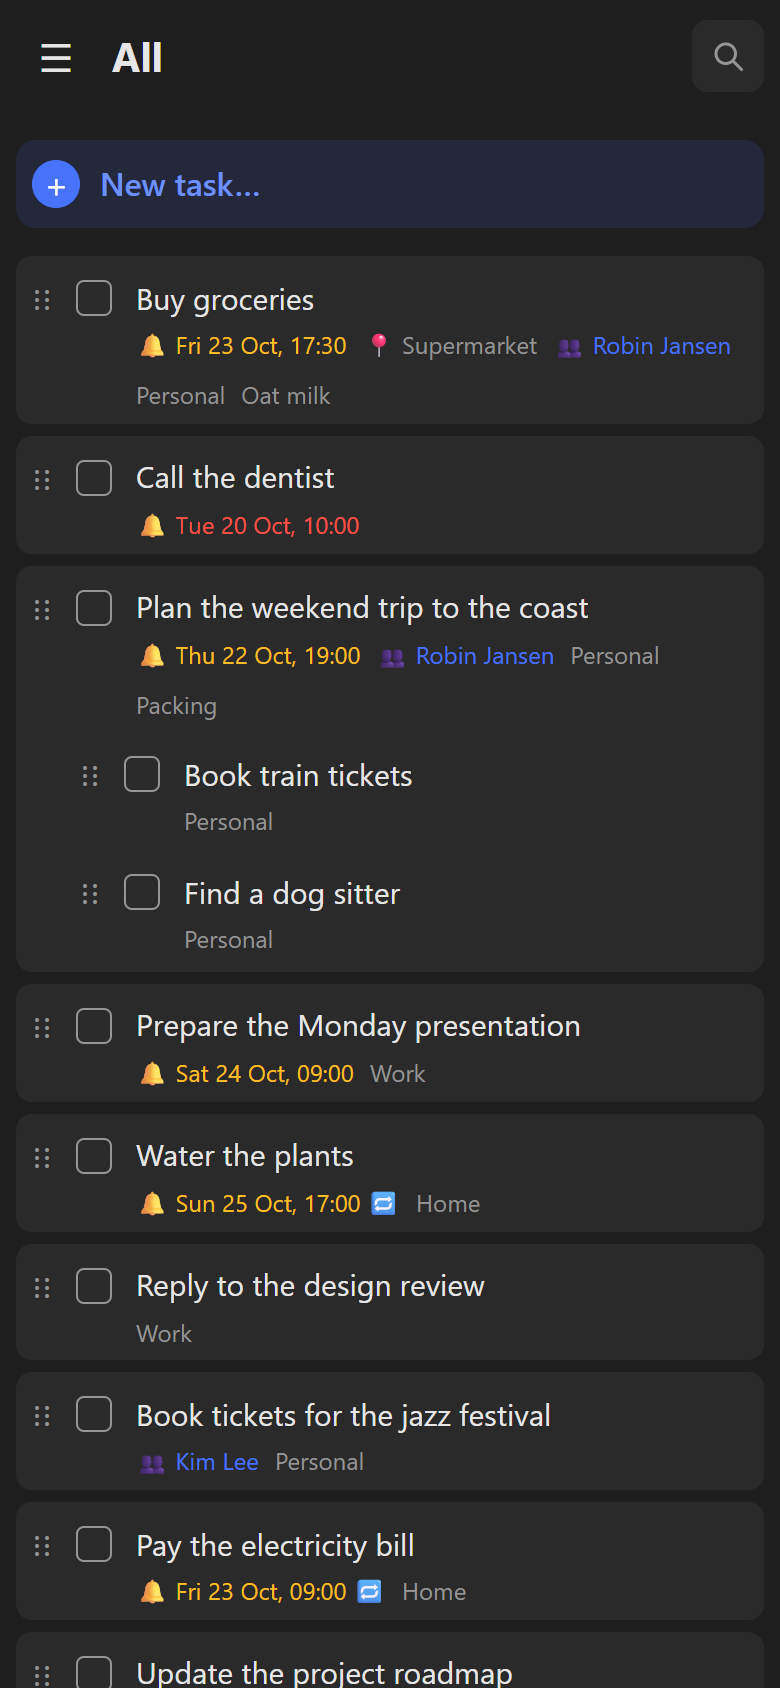
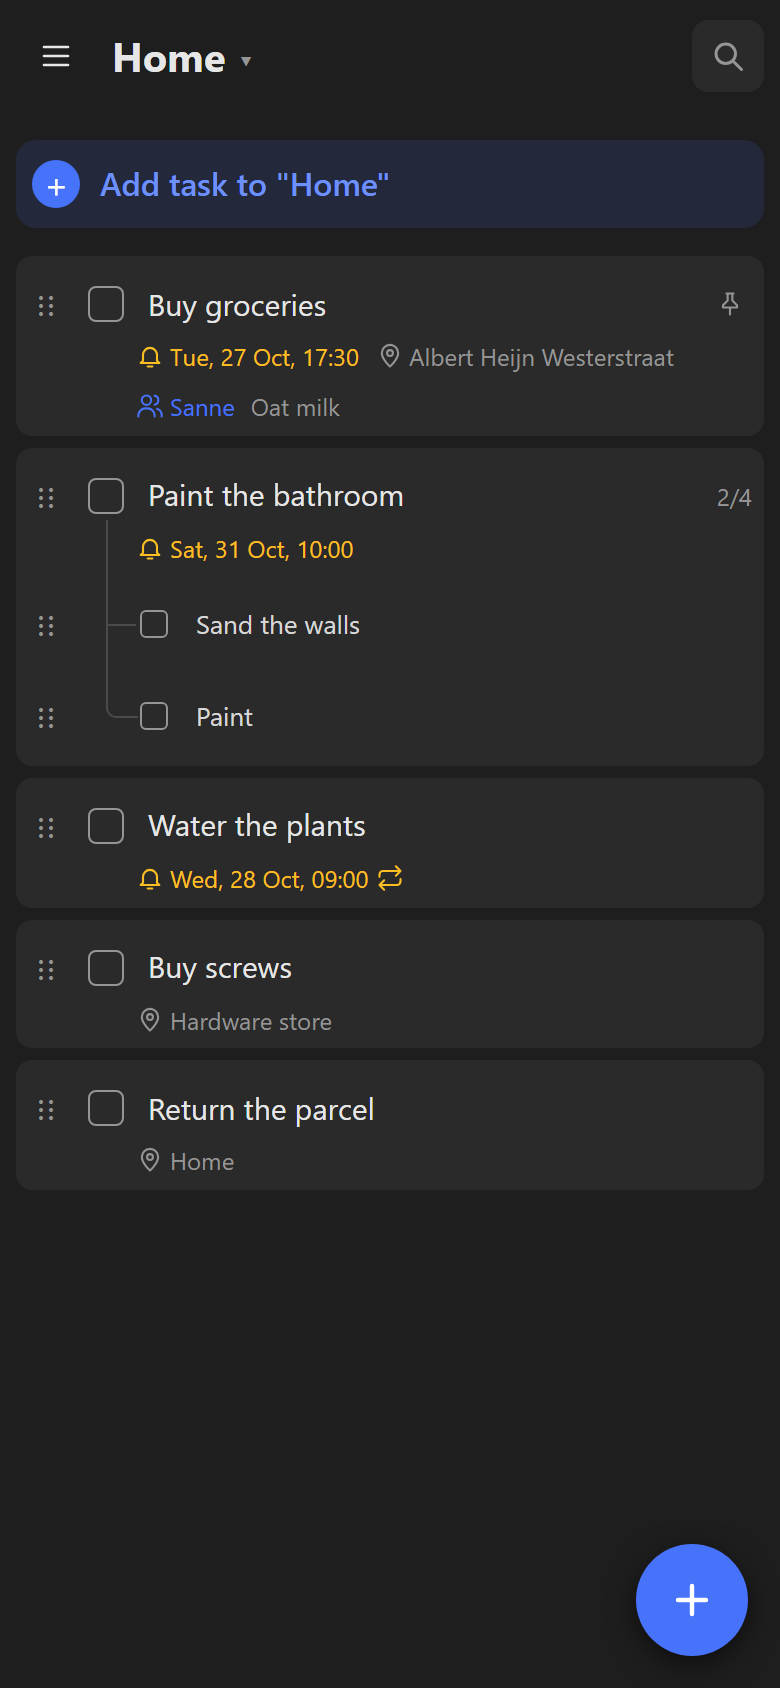
README en docs: gedeelde lijsten, op tijd onderweg en nieuwe screenshots; zijbalk zonder horizontale scrollbalk

diff --git a/public/style.css b/public/style.css
@@ -305,8 +305,9 @@ body.settings-open #btn-search, body.settings-open #search, body.calendar-open #
 .brand { margin: 4px 8px 8px; font-size: 1.25rem; }
 /* Zijbalk in blokken: Alle en Inbox, de eigen lijsten (met Nieuwe lijst), en Kalender/Afgerond/Prullenbak. */
 #side { --side-blk: color-mix(in srgb, var(--side), var(--text) 5%); }
-#side-lists { display: grid; gap: 0; }
-.side-grp { display: grid; gap: 1px; padding: 4px; border-radius: 10px; background: var(--side-blk); }
+#side-lists { display: grid; grid-template-columns: minmax(0, 1fr); gap: 0; }
+/* minmax(0, …): anders groeit de kolom mee met een lange lijstnaam en krijgt de zijbalk een horizontale scrollbalk. */
+.side-grp { display: grid; grid-template-columns: minmax(0, 1fr); gap: 1px; padding: 4px; border-radius: 10px; background: var(--side-blk); }
 .side-h { margin: 10px 10px 4px; color: var(--muted); font-size: .75rem; }
 .side-mine { border-radius: 10px 10px 0 0; padding-bottom: 0; }
 .side-mine:empty { padding: 2px 0 0; }

diff --git a/README.md b/README.md
@@ -15,9 +15,9 @@
 </p>
 
 <p align="center">
-  <img src="docs/screenshots/mobile-home.png" width="250" alt="The task list on a phone, in dark mode: Buy groceries at the top with a time, the supermarket and a housemate it is shared with">
+  <img src="docs/screenshots/mobile-home.png" width="250" alt="The Home list on a phone, in dark mode: Buy groceries pinned at the top with a time, the supermarket and the housemate it is shared with, then Paint the bathroom with two of its four subtasks done">
   <img src="docs/screenshots/mobile-location.png" width="250" alt="The location picker on a phone: a map of Amsterdam with the chosen place and its radius, two favorite places, a radius slider, and the choice between on arrival and on leaving">
-  <img src="docs/screenshots/mobile-task.png" width="250" alt="The open task Buy groceries on a phone: a reminder at 17:30, the supermarket at 150 m on arrival, and a shopping checklist">
+  <img src="docs/screenshots/mobile-task.png" width="250" alt="The open task Buy groceries on a phone: a reminder at 17:30, the supermarket at 200 m on arrival, a shopping checklist, and shared with Sanne">
 </p>
 
 ## Why Tick?
@@ -32,7 +32,7 @@ Tick reminds you **where it matters**:
 - **🔒 Nobody tracks you.** Your phone watches the places itself and only tells Tick that a reminder went off. There is no log of where you have been, and it all runs on your own Cloudflare account, not on someone else's servers.
 - **💸 Free.** It runs on Cloudflare's free plan. No subscription, no ads, no account with a company that might shut down or raise its prices.
 
-And it's a complete to-do app on top of that: lists, subtasks, repeating reminders, a calendar, sharing with your household, a home-screen widget and offline support.
+And it's a complete to-do app on top of that: lists, subtasks, repeating reminders, a calendar, shared lists for your household or a trip with friends, a home-screen widget and offline support.
 
 > [!NOTE]
 > Place reminders need the **Android app**. On your phone, [download the app](https://github.com/DioVayne/tick/releases/latest/download/Tick.apk), open it and type the address of your Tick. No Android SDK needed, and the app tells you when there is an update. Building it yourself is still possible, see [SETUP.md](SETUP.md#10-optional-android-app). On an iPhone, or any other device, Tick works as an installable web app with time reminders.
@@ -49,20 +49,28 @@ Claude asks a few questions (language, time zone, Android app or not), sets ever
 
 <p>
   <img src="docs/screenshots/demo.gif" width="280" alt="Demo of Tick on a phone: add the task Buy screws, link it to the hardware store on a map with an on-arrival reminder, then tick it off from the Android notification that appears on arrival">
-  <img src="docs/screenshots/mobile-menu.png" width="260" alt="The menu on a phone: All and Inbox, the lists Home, Personal and Work each with their own colour, then Calendar, Completed and Trash">
+  <img src="docs/screenshots/mobile-menu.png" width="260" alt="The menu on a phone: All and Inbox, the lists Home, Personal, Weekend away (shared, with a people icon) and Work, each with their own colour and count, then Calendar, Completed and Trash">
 </p>
 
 <sub>The notification in the demo is a mock-up of what the Tick Android app shows when you arrive at a place; everything else is the real app. <a href="docs/screenshots/demo.mp4">Watch it as a video</a>.</sub>
 
 **On your phone** Tick is an installable app that also works offline: changes you make without a connection sync once you are back online. Add a task, give it a time or a place, tick it off and a little burst of confetti comes out of the checkbox. The Android app adds a **home-screen widget**: tick tasks off right there (with 3 seconds to undo) or add one with ➕.
 
-![Tick in light mode on the desktop: the task "Buy groceries" is open with a reminder at 17:30 and a location reminder at the supermarket, 150 m, on arrival](docs/screenshots/desktop-light.png)
+![Tick in light mode on the desktop: the Home list with Buy groceries open on the right, with a reminder at 17:30, a location reminder at the supermarket (200 m, on arrival), a checklist and a housemate it is shared with](docs/screenshots/desktop-light.png)
 
-**On the desktop:** your lists on the left, the tasks in the middle, the open task on the right. "Buy groceries" here has a time *and* its 📍 supermarket, and its checklist lives right in the notes.
+**On the desktop:** your lists on the left, the tasks in the middle, the open task on the right. "Buy groceries" here has a time *and* its 📍 supermarket, and its checklist lives right in the notes. "Paint the bathroom" shows **2/4**: two of its four subtasks are done.
 
-![Tick on the desktop in dark mode with a task shared between two people](docs/screenshots/desktop-dark.png)
+**Share with your household.** Invite your partner or housemates to your Tick, each with their own account. Then share a whole list, or a single task.
 
-**Share with your household.** Invite your partner or housemates to your Tick, each with their own account. Share a task as *one* task (done is done for everyone) or give someone their own copy and see how far they are. A reminder on a shared task reaches everyone on it, so whoever passes the supermarket first gets the groceries.
+![Tick on the desktop in dark mode: the shared list Weekend away, with I'll take it buttons, Sanne and Alex each on a task, and a Ticked off block showing who ticked off what](docs/screenshots/desktop-dark.png)
+
+**Shared lists:** a packing list for a weekend away, the groceries for the house. Everyone in the list can add, change and tick off tasks. Tap **I'll take it** and the others see *Sanne is on it*, so nobody buys the board games twice. Ticked-off tasks stay at the bottom with who did it and when.
+
+<p>
+  <img src="docs/screenshots/shared-list.png" width="250" alt="The shared list Weekend away on a phone: Groceries for Friday and Hiking map with an I'll take it button, Sanne and Alex on Board games and Rent a car, You on Firewood, and two ticked-off tasks with who ticked them off">
+</p>
+
+**One task:** share it as *one* task (done is done for everyone) or give someone their own copy and see how far they are. A reminder on a shared task reaches everyone on it, so whoever passes the supermarket first gets the groceries.
 
 ![The share dialog: pick someone, then choose a shared task or a copy](docs/screenshots/sharing.png)
 
@@ -78,11 +86,11 @@ Claude asks a few questions (language, time zone, Android app or not), sets ever
 ## All features
 Each topic has its own page in the [user guide](docs/README.md).
 
-- **[Places](docs/places.md):** a notification when you arrive at or leave a place, set on a map, with favorite places (with the Android app).
-- **[Tasks and lists](docs/tasks-and-lists.md):** lists, one level of subtasks, drag to sort, swipe on a phone, search, pinning, notes in markdown with clickable checklists, optional photos and files (stored in Cloudflare R2, photos lose their EXIF data), and a trash that keeps deleted tasks for 30 days. Works offline as an installable web app; changes sync when you are back online.
+- **[Places](docs/places.md):** a notification when you arrive at or leave a place, set on a map, with favorite places; *Notify again* when you want it once more, and *On time on the road*, which makes circles bigger while you drive or cycle so the notification is not late (with the Android app).
+- **[Tasks and lists](docs/tasks-and-lists.md):** lists, one level of subtasks with a counter (2/4), drag to sort (on a phone: hold and drag), swipe on a phone, search, pinning, notes in markdown with clickable checklists, optional photos and files (stored in Cloudflare R2, photos lose their EXIF data), and a trash that keeps deleted tasks for 30 days. Works offline as an installable web app; changes sync when you are back online.
 - **[Reminders](docs/reminders.md):** web push at a time, repeating (daily, weekly, monthly, yearly, custom rules, until an end date if you like), a daily notification for overdue tasks with *Done* and *Tomorrow*, a calendar with a month grid and agenda, and a counter on the app icon.
-- **[Sharing](docs/sharing.md):** several accounts on one Tick; share a task as one shared task (done is done for everyone) or as linked copies where you see how far the others are.
-- **[Android app](docs/android.md):** place reminders, a resizable home-screen widget (tick off with 3 seconds to undo, quick add, a list or *Today* per widget), notifications as Tick instead of Chrome, and an update check. [Download it](https://github.com/DioVayne/tick/releases/latest/download/Tick.apk).
+- **[Sharing](docs/sharing.md):** several accounts on one Tick; share a whole list (everyone adds and ticks off, *I'll take it* puts a task on your name, ticked-off tasks show who did it), or share one task as a shared task (done is done for everyone) or as linked copies where you see how far the others are.
+- **[Android app](docs/android.md):** place reminders (on time on the road too), a resizable home-screen widget (tick off with 3 seconds to undo, quick add, a list or *Today* per widget), notifications as Tick instead of Chrome, and an update check. [Download it](https://github.com/DioVayne/tick/releases/latest/download/Tick.apk).
 - **[Settings](docs/settings.md):** theme, colour theme (such as *Retro 70s*) and your own background photo, text size, language per device, time zone, password, keys, your devices, backup and restore, and TickTick import. After the install you rarely need the config again.
 - **[Integrations](docs/integrations.md):** an MCP server so Claude can manage your tasks, an inbox API for automations, a Home Assistant package, and a fallback webhook.
 - Desktop layout with a sidebar and a detail panel; a full-screen task view on mobile. Confetti when you tick off a task (not when your device asks for reduced motion).

diff --git a/docs/sharing.md b/docs/sharing.md
@@ -10,6 +10,8 @@ Forgot a password? The administrator makes a **Reset link** (valid for 1 hour) a
 ## Sharing a list
 Working on one list together, such as a packing list for a holiday or a weekend away with friends? Share the whole list, and every task in it is shared with everyone in the list. Nobody has to accept tasks one by one.
 
+<img src="screenshots/shared-list.png" width="250" alt="A shared list on a phone: tasks with an I'll take it button, tasks that Sanne, Alex or you are on, and a Ticked off block with who ticked off what">
+
 - **Share:** open the list menu (right-click, a long press, **⋯**, or the list name at the top) and choose **Share…**. Pick one or more people. The dialog shows who is in the list and who has not answered yet. A shared list has a small people icon next to its name in the sidebar.
 - **Accept once:** the other person gets a notification with **Accept** and **Decline**, and a bar at the top of Tick. After accepting, the list is in their sidebar with all its tasks. If they already have a list with that name, the shared one gets the owner's name after it, such as "Holiday (Dio)"; each person can rename it for themselves.
 - **Everyone can do everything:** anyone in the list can add, change, tick off and delete tasks. A new task is shared with everyone straight away. A deleted task goes to everyone's trash.
@@ -29,6 +31,8 @@ A task that you had already shared on its own with someone outside the list, bef
 
 ## Sharing a task
 Open a top-level task and tap **Share**. Pick someone and choose how:
+
+![The share dialog: pick Alex or Sanne, or type a name, then choose Shared or Copy](screenshots/sharing.png)
 
 - **Shared:** one task for everyone. Done is done for everyone, and everyone can change it and add subtasks. Each person keeps it in their own list and order. A reminder (time or place) reaches everyone on it, so whoever passes the supermarket first does the shopping. When someone ticks it off or gives it a place, the others get a notification.
 - **Copy:** the other person gets their own copy, with all subtasks open. You each tick off your own.

diff --git a/docs/README.md b/docs/README.md
@@ -6,9 +6,9 @@ How to use Tick, one page per topic. Installing Tick is in [SETUP.md](../SETUP.m
 |---|---|
 | [Tasks and lists](tasks-and-lists.md) | Adding tasks, subtasks, lists, pinning, dragging and swiping, search, notes, attachments, the trash |
 | [Reminders](reminders.md) | Reminders by time, repeating, the overdue nudge, the calendar, notifications on each device |
-| [Places](places.md) | Reminders on arrival or on leaving, favorite places, the radius |
+| [Places](places.md) | Reminders on arrival or on leaving, favorite places, the radius, notifying again, on time on the road |
 | [Sharing](sharing.md) | Accounts for your household, sharing a list, sharing a task or a copy, seeing how far others are |
-| [Android app](android.md) | Download, linking, the home-screen widget, quick add, updates |
+| [Android app](android.md) | Download, linking, the home-screen widget, quick add, on time on the road, updates |
 | [Settings](settings.md) | Display, language and time, devices, keys, backup and import, managing accounts |
 | [Integrations](integrations.md) | Claude (MCP), the inbox API for automations, Home Assistant, the fallback webhook |
 

diff --git a/docs/android.md b/docs/android.md
@@ -19,6 +19,9 @@ Add the Tick widget to your home screen. In its settings you choose:
 
 Tick tasks off right there (you get 3 seconds to undo), tap a task to open it in the app, tap the header to open the app on that list, and add a task with **➕** (it goes into the widget's list). Each row shows the reminder, list, pin, repeat, place, sharing and open subtasks. The widget can be resized.
 
+## On time on the road
+Android notices a place a few minutes late, so by car or bike you would be past it. Turn on **On time on the road** in *Tick on this phone* and Tick makes arrival circles bigger while you drive or cycle. How it works: [Places, On the road](places.md#on-the-road).
+
 ## Quick add and sharing to Tick
 **➕** on the widget, the **New task** shortcut on the app icon, and *Share* from another app all add a task. A date without a time gets 09:00 here, not your own reminder time.
 
